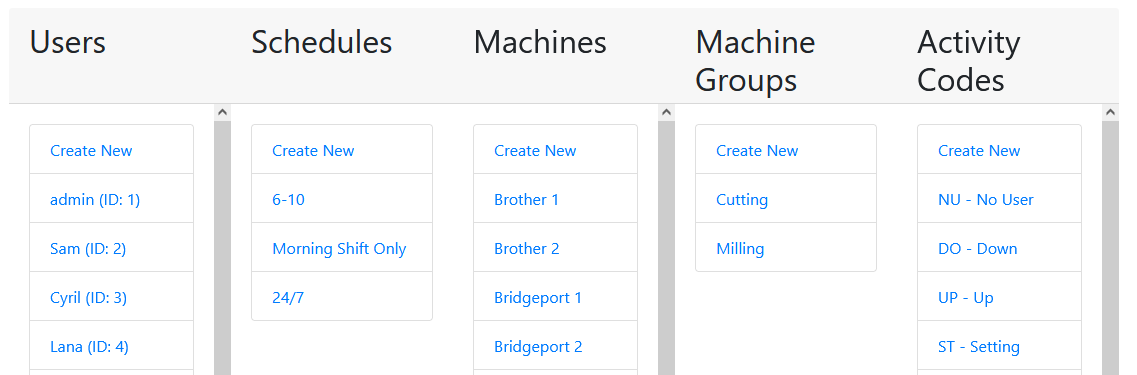
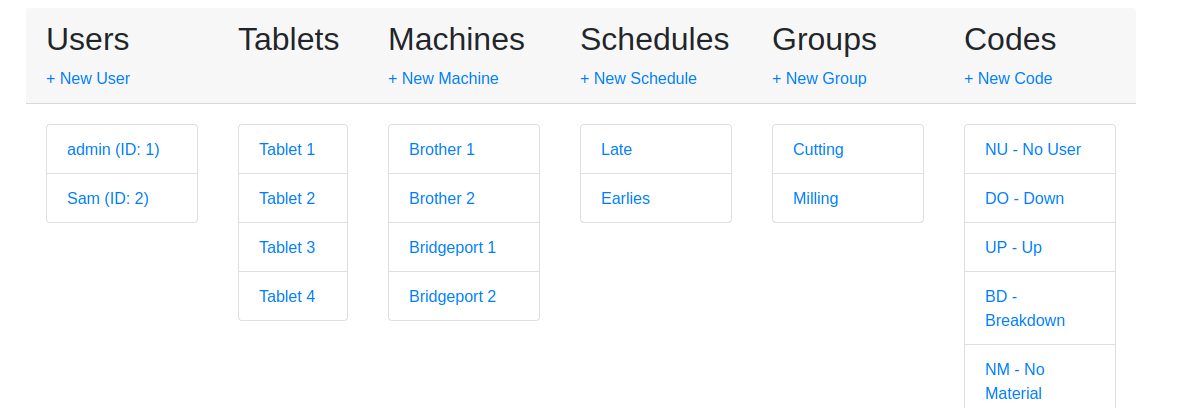
Updated documentation for automatic device discovery

diff --git a/app/templates/documentation/android.html b/app/templates/documentation/android.html
@@ -8,7 +8,8 @@
                 <div class="jumbotron">
                     <div class="container">
                         <h1 class="display-3">Android</h1>
-                        <p>Monitoring of the equipment is performed via the companion Android App</p>
+                        <p>Monitoring of the equipment is performed via the companion Android App. This can be downloaded from
+                            <a href="https://github.com/DigitME2/MachineMonitoring/releases">here.</a></p>
                         <p><a class="btn btn-secondary" href="{{ url_for('documentation.help_home') }}" role="button">«
                             Back to help</a></p>
                     </div>
@@ -18,7 +19,8 @@
                     <div class="row justify-content-center">
                         <div class="col-6">
                             <h2>Initial Setup</h2>
-                            <p>When the app is first started, it will require the address of this OEE server.</p>
+                            <p>When the app is first started, it will require the address of this OEE server. The app
+                            can attempt to discover this automatically, or it can be entered manually. </p>
                         </div>
                         <div class="col-4">
                             <img class="img-thumbnail my-2"
@@ -29,11 +31,8 @@
                     <div class="row justify-content-center">
                         <div class="col-6">
                             <p>Once connected to the server, the app will try and find its assigned machine. If it has
-                                not been paired to a machine, the IP of this tablet should be added to the machine in
-                                the admin page. The tablet will say its IP address at the top of the screen. If this
-                                address does not sound correct (e.g. 127.0.0.1) then it's possible you have an error in
-                                your server configuration. An example nginx config can be found in this project's
-                                repository</p>
+                                not been paired to a machine, it must be assigned via the "Tablets" tab in the
+                                admin page. The tablet can be identified by its name at the top of the screen. </p>
                         </div>
                         <div class="col-4">
                             <img class="img-thumbnail my-2"

diff --git a/app/templates/documentation/admin.html b/app/templates/documentation/admin.html
@@ -32,12 +32,15 @@
                                 schedules are computed at midnight each day, so changing a schedule will not affect any
                                 calculations in the past. </p>
 
+                            <p>The <b>Tablets</b> tab lists the tablets that have been connected to the server. Once a
+                                tablet is discovered, it can be assigned to a machine here.
+
+                            </p>
+
                             <p>The <b>Machines</b> tab lists the equipment that has been created. Selecting one
-                                allows it to be edited, or click "Create" to add another. Each piece of equipment can be
-                                assigned an Android tablet for data collection. The tablets should be given a static IP,
-                                which can be entered in this screen to pair the tablet to the machine.
-                                Workflow types, once created, allow different flows of work on Android tablets, for
-                                example some workflows may request a reason for excessive downtime from the operator.
+                                allows it to be edited, or click "Create" to add another. Workflow types allow
+                                different flows of work on Android tablets, for example the "pausable" workflow allows a
+                                job to be paused without immediately knowing the downtime reason.
                                 Once created, equipment cannot be
                                 removed. De-select "Active" if it is no longer needed. </p>
 
